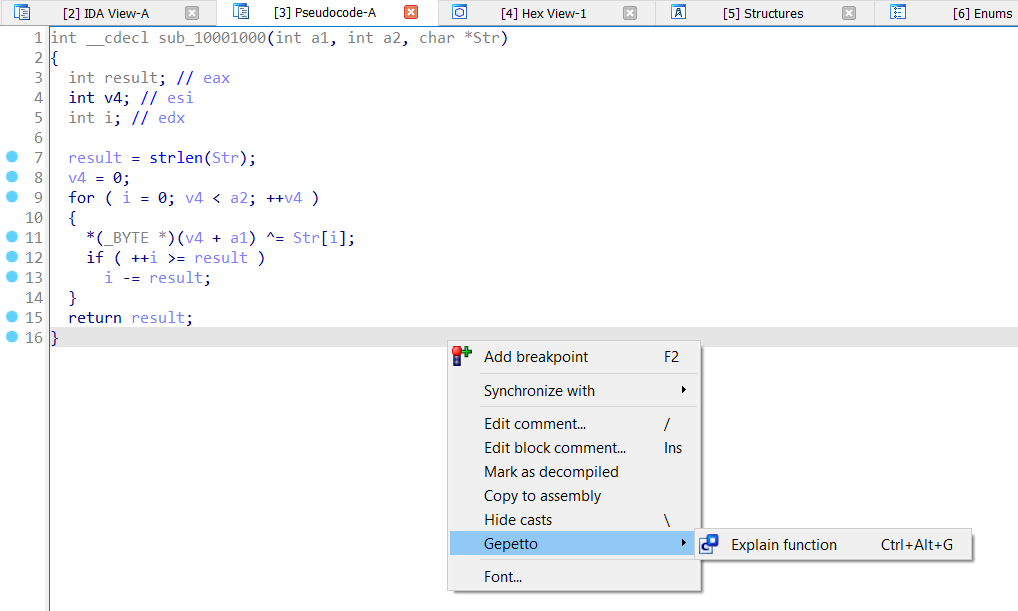
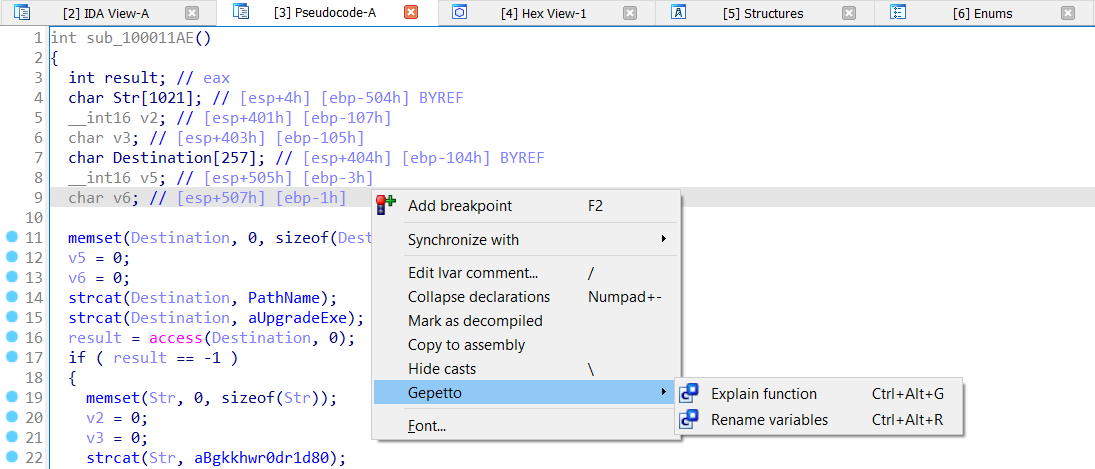
New feature: automatic variable renaming. The API key can now be obtain from an envvar too.

Changed region(s): [[0.0, 0.0, 1.0, 1.0], [0.3654, 0.5672, 0.5786, 0.597], [0.3654, 0.5075, 0.4872, 0.5373]]

diff --git a/gepetto.py b/gepetto.py
@@ -1,12 +1,16 @@
 import functools
+import json
 import idaapi
 import ida_hexrays
 import ida_kernwin
 import idc
 import openai
+import os
+import re
 import textwrap
 import threading
 
+# Set your API key here, or put in in the OPENAI_API_KEY environment variable.
 openai.api_key = ""
 
 # =============================================================================
@@ -15,10 +19,14 @@ openai.api_key = ""
 
 class GepettoPlugin(idaapi.plugin_t):
     flags = 0
-    action_name = "gepetto:explain_function"
-    menu_path = "Edit/Gepetto/Explain function"
+    explain_action_name = "gepetto:explain_function"
+    explain_menu_path = "Edit/Gepetto/Explain function"
+    rename_action_name = "gepetto:rename_function"
+    rename_menu_path = "Edit/Gepetto/Rename variables"
     wanted_name = 'Gepetto'
     wanted_hotkey = ''
+    comment = "Uses ChatGPT to enrich the decompiler's output"
+    help = "See usage instructions on GitHub"
     menu = None
 
     def init(self):
@@ -26,18 +34,25 @@ class GepettoPlugin(idaapi.plugin_t):
         if not ida_hexrays.init_hexrays_plugin():
             return idaapi.PLUGIN_SKIP
 
-        action_desc = idaapi.action_desc_t(
-            self.action_name,               # The action name. This acts like an ID and must be unique
-            'Explain function',             # The action text.
-            GepettoHandler(),               # The action handler.
-            "Ctrl+Alt+G",                   # Optional: the action shortcut
-            'Use ChatGPT to explain the currently selected function',  # Optional: the action tooltip (available in menus/toolbar)
-            199)                            # Optional: the action icon (shows when in menus/toolbars)
-        idaapi.register_action(action_desc)
-        idaapi.attach_action_to_menu(
-            self.menu_path,                 # The relative path of where to add the action
-            self.action_name,               # The action ID (see above)
-            idaapi.SETMENU_APP)             # We want to append the action after the 'Manual instruction...'
+        # Function explaining action
+        explain_action = idaapi.action_desc_t(self.explain_action_name,
+                                              'Explain function',
+                                              ExplainHandler(),
+                                              "Ctrl+Alt+G",
+                                              'Use ChatGPT to explain the currently selected function',
+                                              199)
+        idaapi.register_action(explain_action)
+        idaapi.attach_action_to_menu(self.explain_menu_path, self.explain_action_name, idaapi.SETMENU_APP)
+
+        # Variable renaming action
+        rename_action = idaapi.action_desc_t(self.rename_action_name,
+                                             'Rename variables',
+                                             RenameHandler(),
+                                             "Ctrl+Alt+R",
+                                             "Use ChatGPT to rename this function's variables",
+                                             199)
+        idaapi.register_action(rename_action)
+        idaapi.attach_action_to_menu(self.rename_menu_path, self.rename_action_name, idaapi.SETMENU_APP)
 
         # Register context menu actions
         self.menu = ContextMenuHooks()
@@ -49,10 +64,20 @@ class GepettoPlugin(idaapi.plugin_t):
         pass
 
     def term(self):
-        idaapi.detach_action_from_menu(self.menu_path, self.action_name)
+        idaapi.detach_action_from_menu(self.explain_menu_path, self.explain_action_name)
+        idaapi.detach_action_from_menu(self.explain_menu_path, self.rename_action_name)
         if self.menu:
             self.menu.unhook()
         return
+
+# -----------------------------------------------------------------------------
+
+class ContextMenuHooks(idaapi.UI_Hooks):
+    def finish_populating_widget_popup(self, form, popup):
+        # Add actions to the context menu of the Pseudocode view
+        if idaapi.get_widget_type(form) == idaapi.BWN_PSEUDOCODE or idaapi.get_widget_type(form) == idaapi.BWN_DISASM:
+            idaapi.attach_action_to_popup(form, popup, GepettoPlugin.explain_action_name, "Gepetto/")
+            idaapi.attach_action_to_popup(form, popup, GepettoPlugin.rename_action_name, "Gepetto/")
 
 # -----------------------------------------------------------------------------
 
@@ -75,15 +100,20 @@ def comment_callback(address, view, response):
 
 # -----------------------------------------------------------------------------
 
-class GepettoHandler(idaapi.action_handler_t):
+class ExplainHandler(idaapi.action_handler_t):
+    """
+    This handler is tasked with querying ChatGPT for an explanation of the
+    given function. Once the reply is received, it is added as a function
+    comment.
+    """
     def __init__(self):
         idaapi.action_handler_t.__init__(self)
 
     def activate(self, ctx):
         decompiler_output = ida_hexrays.decompile(idaapi.get_screen_ea())
         v = ida_hexrays.get_widget_vdui(ctx.widget)
-        query_chatgpt_async("Can you explain what the following C function does?\n" + str(decompiler_output) +
-                            "\nSuggest better names for the function and its arguments.",
+        query_chatgpt_async("Can you explain what the following C function does and suggest a better name for it?\n"
+                            + str(decompiler_output),
                             functools.partial(comment_callback, address=idaapi.get_screen_ea(), view=v))
         return 1
 
@@ -93,11 +123,54 @@ class GepettoHandler(idaapi.action_handler_t):
 
 # -----------------------------------------------------------------------------
 
-class ContextMenuHooks(idaapi.UI_Hooks):
-    def finish_populating_widget_popup(self, form, popup):
-        # Add actions to the context menu of the Pseudocode view
-        if idaapi.get_widget_type(form) == idaapi.BWN_PSEUDOCODE or idaapi.get_widget_type(form) == idaapi.BWN_DISASM:
-            idaapi.attach_action_to_popup(form, popup, GepettoPlugin.action_name, "Gepetto/")
+def rename_callback(address, view, response):
+    """
+    Callback that extracts a JSON array of old names and new names from the
+    response and sets them in the pseudocode.
+    :param address: The address of the function to work on
+    :param view: A handle to the decompiler window
+    :param response: The response from ChatGPT
+    """
+    j = re.search(r"\{[^}]*?\}", response)
+    if not j:
+        print(f"Error: couldn't extract a response from ChatGPT's output:\n{response}")
+        return
+    names = json.loads(j.group(0))
+
+    # The rename function needs the start address of the function
+    function_addr = idaapi.get_func(address).start_ea
+
+    counter = 0
+    for n in names:
+        if ida_hexrays.rename_lvar(function_addr, n, names[n]):
+            counter += 1
+    # Refresh the window to show the new names
+    view.refresh_view(True)
+    print(f"ChatGPT query finished! {counter} variable(s) renamed.\nPress F5 if the new names don't appear.")
+
+# -----------------------------------------------------------------------------
+
+class RenameHandler(idaapi.action_handler_t):
+    """
+    This handler requests new variable names from ChatGPT and updates the
+    decompiler's output.
+    """
+    def __init__(self):
+        idaapi.action_handler_t.__init__(self)
+
+    def activate(self, ctx):
+        decompiler_output = ida_hexrays.decompile(idaapi.get_screen_ea())
+        v = ida_hexrays.get_widget_vdui(ctx.widget)
+        query_chatgpt_async("Analyze the following C function:\n" + str(decompiler_output) +
+                            "\nSuggest better variable names, reply with a JSON array where keys are the original names"
+                            "and values are the proposed names. Do not explain anything, only print the JSON "
+                            "dictionary.",
+                            functools.partial(rename_callback, address=idaapi.get_screen_ea(), view=v))
+        return 1
+
+    # This action is always available.
+    def update(self, ctx):
+        return idaapi.AST_ENABLE_ALWAYS
 
 # =============================================================================
 # ChatGPT interaction
@@ -124,6 +197,7 @@ def query_chatgpt(query, cb):
     except openai.OpenAIError as e:
         raise print(f"ChatGPT could not complete the request: {str(e)}")
 
+# -----------------------------------------------------------------------------
 
 def query_chatgpt_async(query, cb):
     """
@@ -141,7 +215,9 @@ def query_chatgpt_async(query, cb):
 
 def PLUGIN_ENTRY():
     if not openai.api_key:
-        print("Please edit this script to insert your OpenAI API key!")
-        raise ValueError("No valid OpenAI API key found")
+        openai.api_key = os.getenv("OPENAI_API_KEY")
+        if not openai.api_key:
+            print("Please edit this script to insert your OpenAI API key!")
+            raise ValueError("No valid OpenAI API key found")
 
     return GepettoPlugin()

diff --git a/README.md b/README.md
@@ -1,6 +1,12 @@
-Gepetto is a Python script which uses OpenAI's ChatGPT to provide meaning to functions decompiled by IDA Pro.
+# Gepetto
 
-# Setup
+Gepetto is a Python script which uses OpenAI's ChatGPT to provide meaning to functions decompiled by IDA Pro.
+At the moment, it can ask ChatGPT to explain what a function does, and to automatically rename its variables.
+Here is a simple example of what results it can provide in mere seconds:
+
+![](https://github.com/JusticeRage/Gepetto/blob/main/readme/comparison.png?raw=true)
+
+## Setup
 
 Simply drop this script into your IDA plugins folder (`$IDAUSR/plugins`).
 
@@ -16,18 +22,30 @@ Finally, with the corresponding interpreter, simply run:
 ⚠ You will also need to edit the script and add your own API key, which can be found on [this page](https://beta.openai.com/account/api-keys).
 Please note that ChatGPT queries are not free (although not very expensive) and you will need to setup a payment method.
 
-# Usage
+## Usage
 
-Once the plugin is installed properly, you should be able to invoke it from the context menu of IDA's pseudo code windows, as shown in the screenshot below:
+Once the plugin is installed properly, you should be able to invoke it from the context menu of IDA's pseudocode window,
+as shown in the screenshot below:
 
 ![](https://github.com/JusticeRage/Gepetto/blob/main/readme/usage.png?raw=true)
 
-# Limitations
+You can also use the following hotkeys:
+
+- Ask ChatGPT to explain the function: `Ctrl` + `Alt` + `H`
+- Request better names for the function's variables: `Ctrl` + `Alt` + `R`
+
+Initial testing shows that asking for better names works better if you ask for an explanation of the function first – I
+assume because ChatGPT then uses its own comment to make more accurate suggestions.
+There is an element of randomness to the AI's replies. If for some reason the initial response you get doesn't suit you,
+you can always run the command again.
+
+## Limitations
 
 - The plugin requires access to the HexRays decompiler to function.
 - ChatGPT is a general-purpose chatbot and may very well get things wrong! Always be critical of results returned!
 
-# Acknowledgements
+## Acknowledgements
 
 - [OpenAI](https://openai.com), for making this incredible chatbot, obviously
+- [Hex Rays](https://hex-rays.com/), the makers of IDA for their lightning fast support
 - [Kaspersky](https://kaspersky.com), for funding all my research
